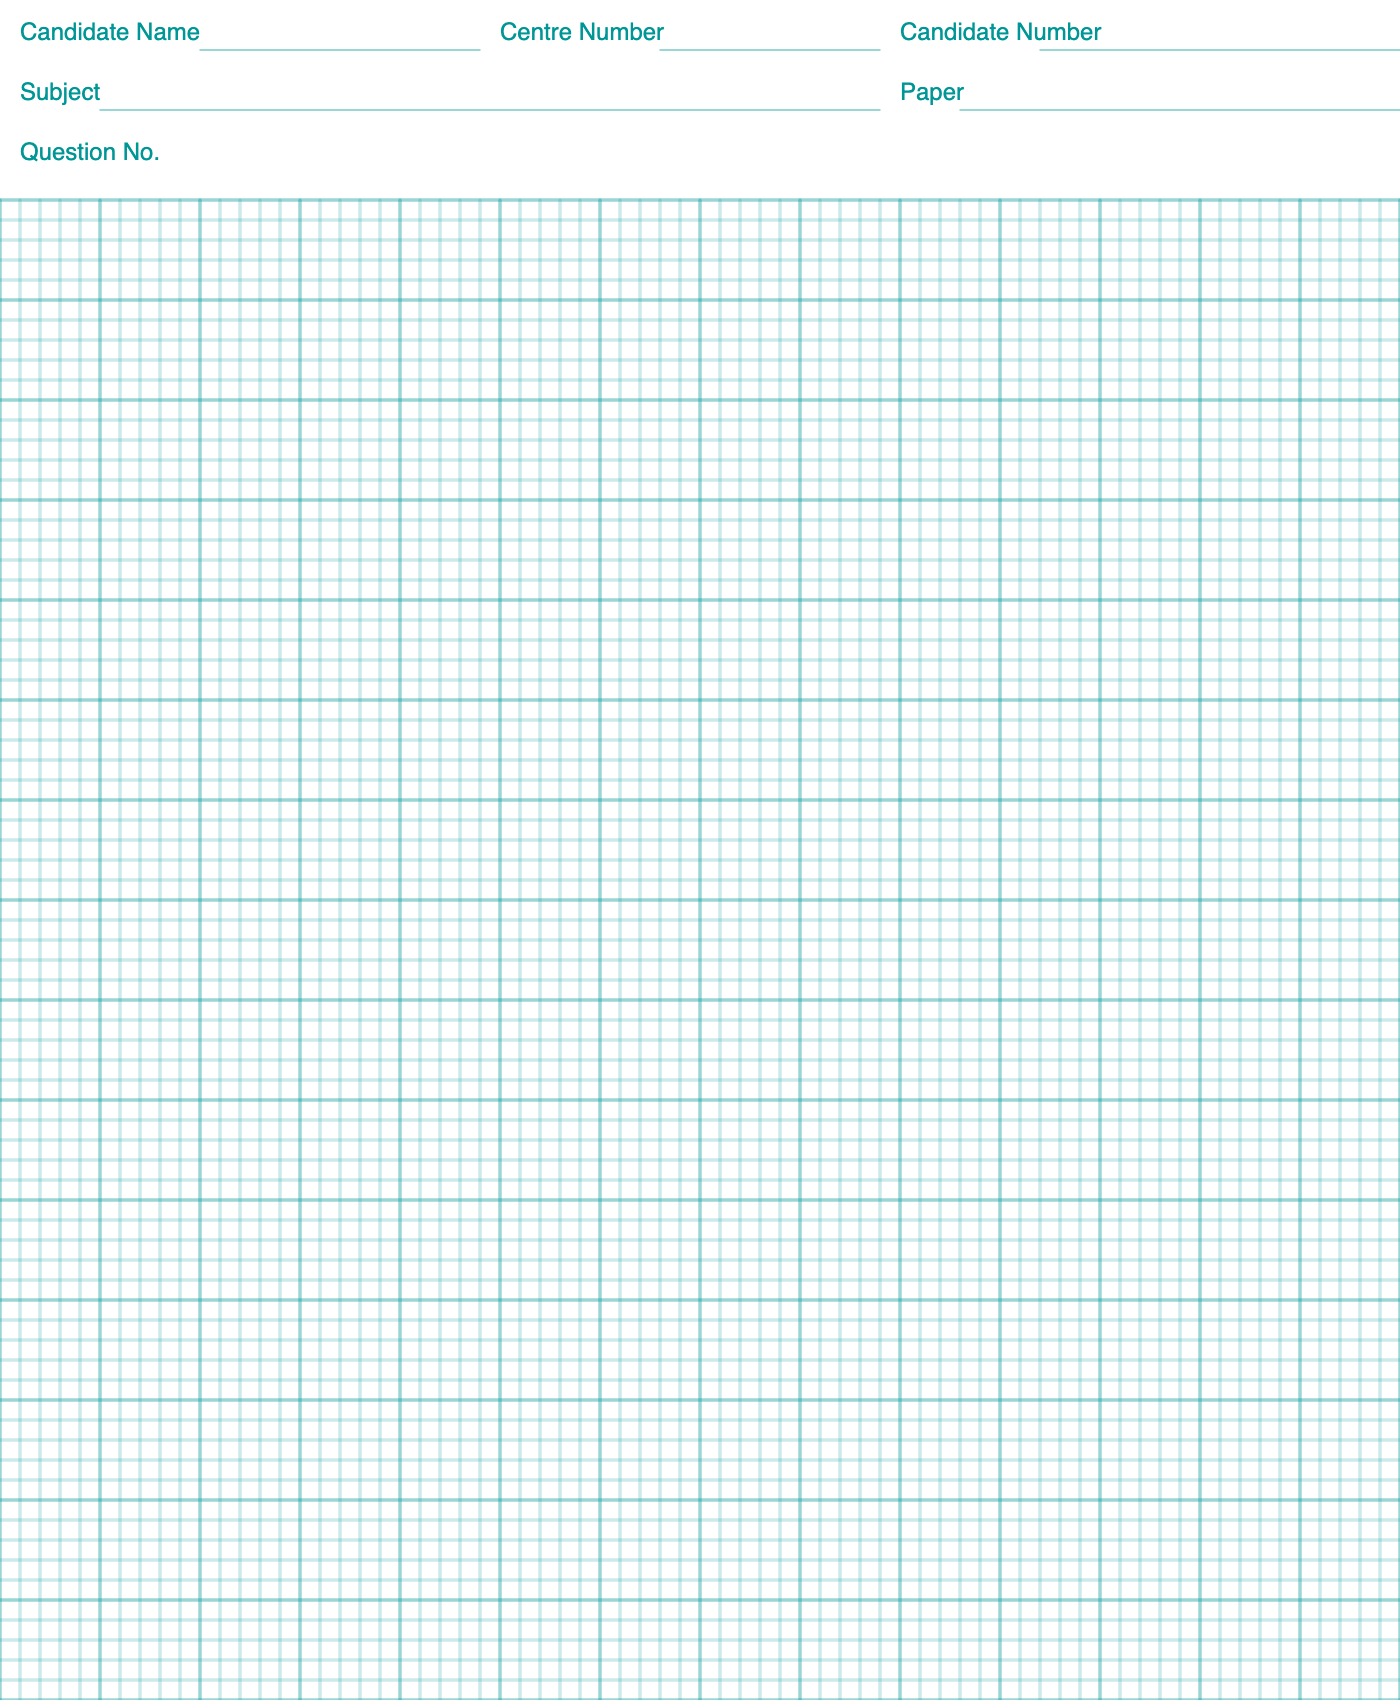
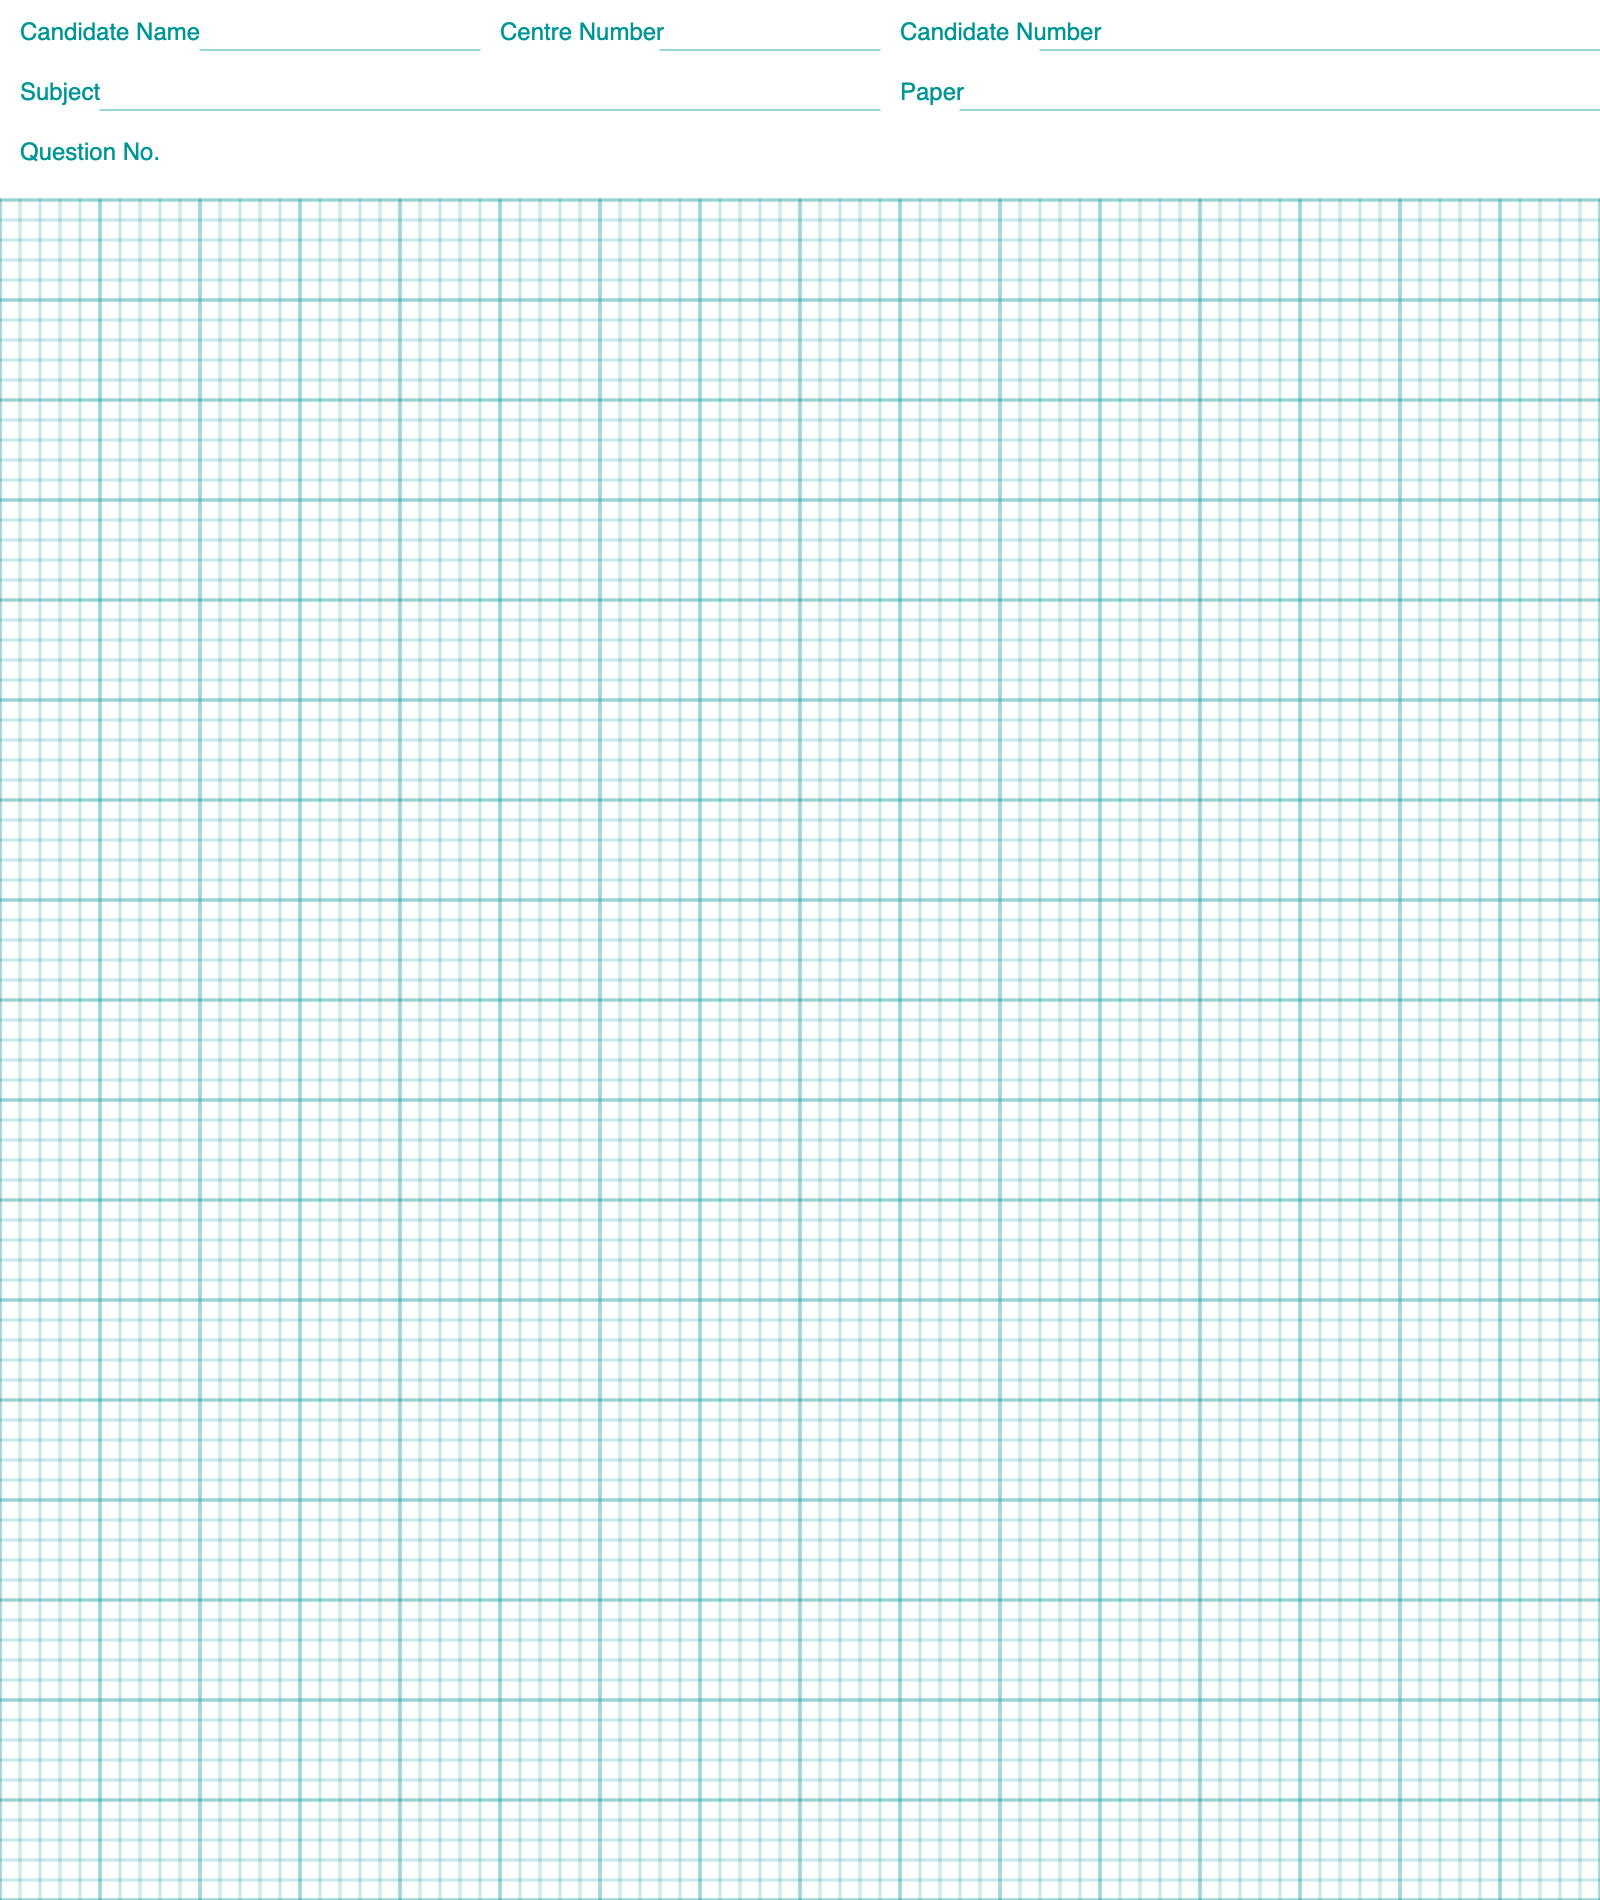
Minor fix

diff --git a/2025/genuary_01_lines.js b/2025/genuary_01_lines.js
@@ -1,5 +1,5 @@
 function setup() {
-  createCanvas(700, 850);
+  createCanvas(800, 950);
   background(255);
   
   textSize(12);
